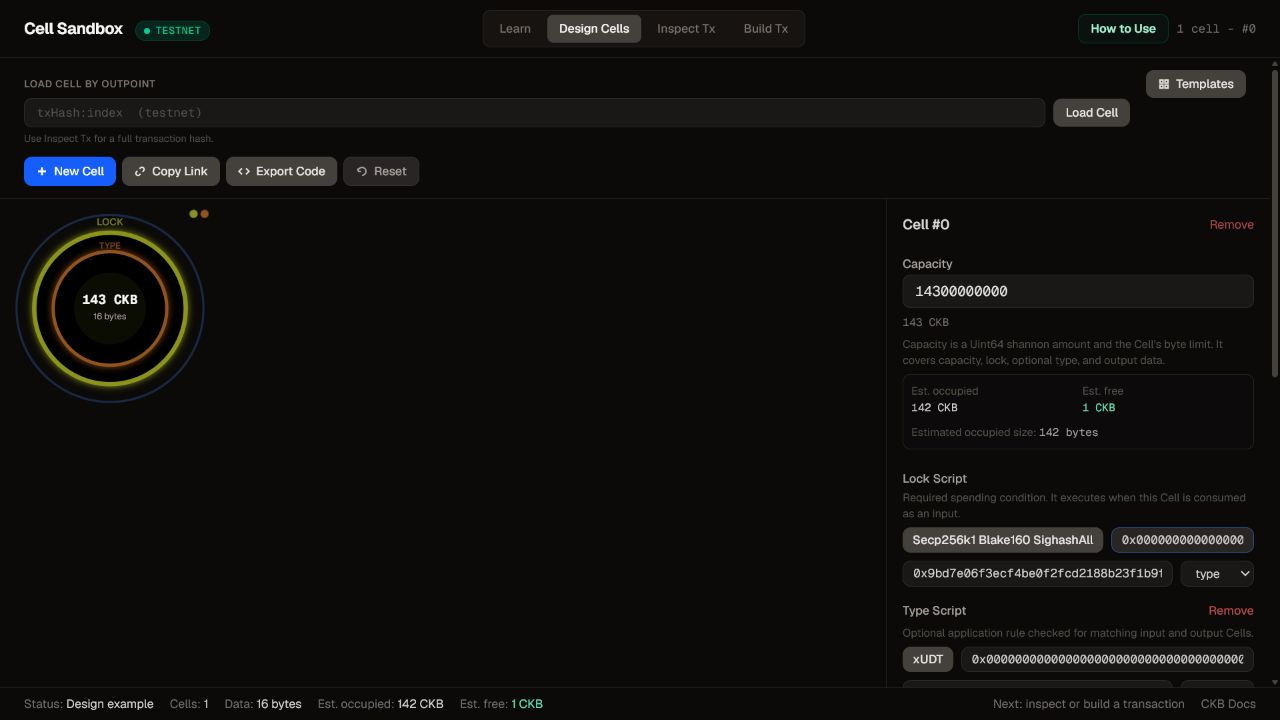
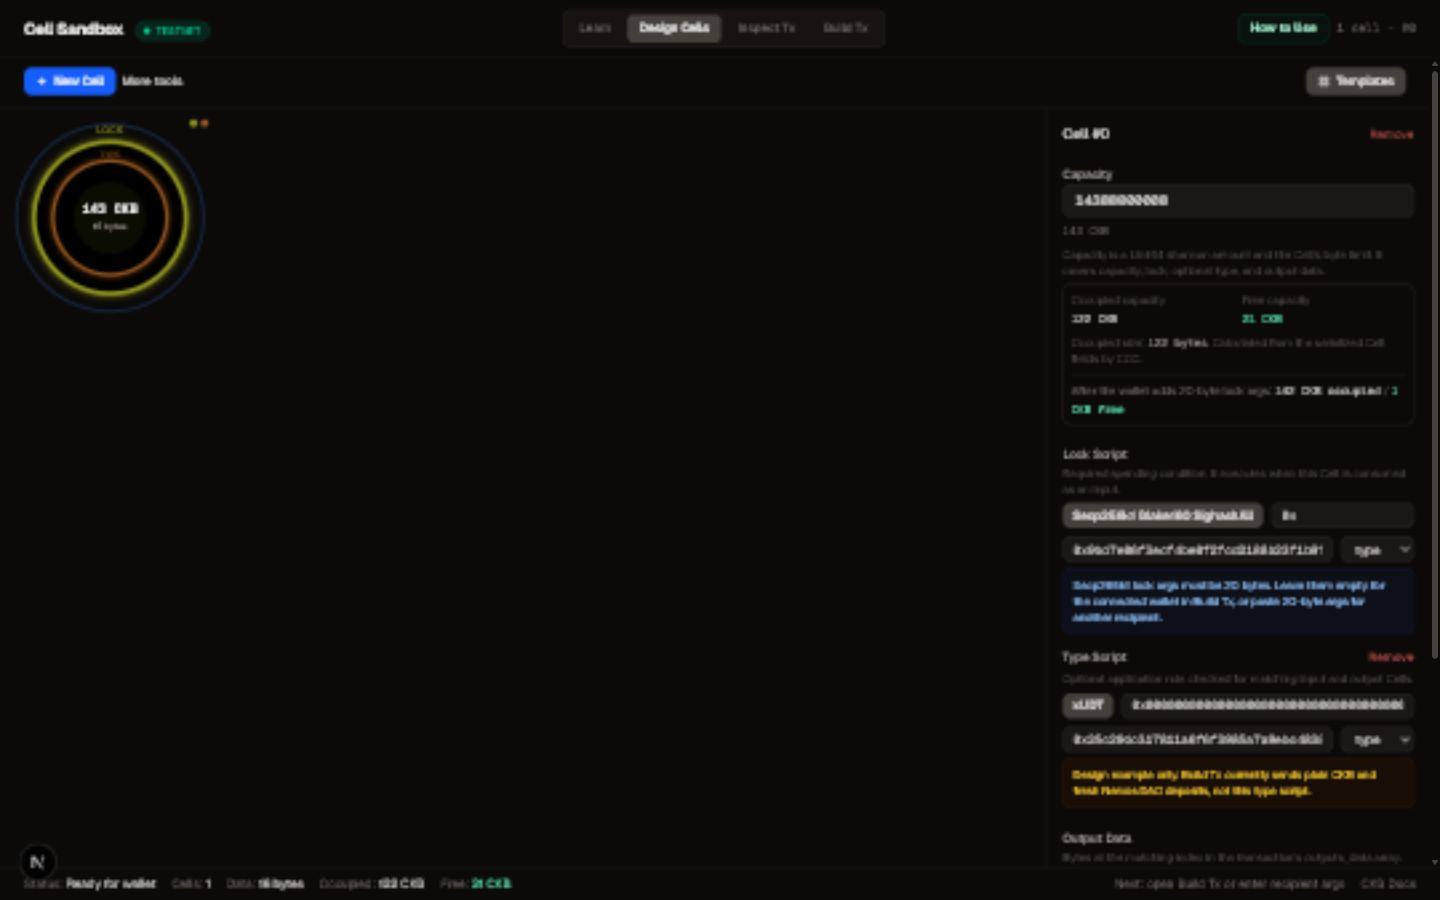
docs: align README with simplified workflow

diff --git a/README.md b/README.md
@@ -1,6 +1,6 @@
 # Cell Sandbox
 
-Cell Sandbox is a visual learning and prototyping workspace for the Nervos CKB Cell model. Design Cells field by field, inspect committed transactions, understand capacity and scripts, export CCC-compatible TypeScript, and build supported transactions without starting from raw structures.
+Cell Sandbox is a visual learning and prototyping workspace for the Nervos CKB Cell model. Its four focused workspaces move from a read-only explanation of Cells to field-level design, inspection of committed transactions, and wallet-funded transaction construction with CCC.
 
 [Open the live demo](https://cell-sandbox-m.vercel.app/) | [Read the CKB docs](https://docs.nervos.org/) | [Architecture](docs/ARCHITECTURE.md) | [Development guide](docs/DEVELOPMENT.md) | [Usability protocol](docs/USABILITY_TESTING.md)
 
@@ -13,9 +13,10 @@ CKB stores state in Cells rather than account records. That model is powerful, b
 Cell Sandbox makes those relationships visible:
 
 - **Learn before editing.** Learn is read-only and introduces one concept at a time before raw fields appear in Design Cells.
-- **Design with immediate feedback.** See exact capacity, occupied bytes, free capacity, script roles, and decoded data.
+- **Design with immediate feedback.** See exact capacity, occupied bytes, free capacity, script roles, and decoded data. Chain loading, sharing, and code export stay under **More tools** until needed.
 - **Inspect real state transitions.** Resolve the previous Cells referenced by transaction inputs and compare them with newly created output Cells.
-- **Build with explicit boundaries.** Build hides raw fields, shows the CCC completion path, and leaves editing in Design Cells.
+- **Build with explicit boundaries.** Build hides raw fields, separates outputs from wallet-selected inputs, and shows the exact CCC completion path.
+- **Reuse CCC behavior.** Known script deployments and Cell occupancy calculations come from CCC rather than a parallel local registry or estimator.
 - **Move back to code.** Export the visual configuration as CCC-compatible TypeScript or share it by URL.
 
 ## Guided Workflow
@@ -23,13 +24,15 @@ Cell Sandbox makes those relationships visible:
 | Step | Workspace | What happens |
 | --- | --- | --- |
 | 1 | **Learn** | Understand capacity, the required lock script, the optional type script, and output data. |
-| 2 | **Design Cells** | Create a draft, apply a template, edit fields, or load an on-chain Cell by outpoint. |
+| 2 | **Design Cells** | Create a local draft, apply a template, edit fields, or open **More tools** to load an on-chain Cell by outpoint. |
 | 3 | **Inspect Tx** | Paste a full transaction hash and compare referenced previous Cells with new output Cells. |
 | 4 | **Build Tx** | Mark drafts as outputs, connect a wallet, review validation, then sign and broadcast. |
 
 ### Design Cells
 
 The designer keeps protocol details next to the field they affect. Known lock and type scripts are separated, capacities remain exact `BigInt` values, and common data formats receive structured previews. Deployment values come from CCC `KnownScript`; occupied size and free capacity come from CCC `CellAny`.
+
+An empty standard Secp256k1 lock is a deliberate wallet-ready state, not a broken template. Build Tx fills it from the connected wallet. To create an output for someone else, enter that recipient's 20-byte lock args in Design Cells.
 
 ![xUDT Cell in the visual designer](docs/screenshots/design-xudt.png)
 
@@ -50,6 +53,16 @@ Built-in Pudge samples make the view reproducible:
 
 Draft Cells do not become transaction inputs. In Build Tx you explicitly select the Cells to create as outputs. The wallet then selects spendable funding Cells, calculates the fee at signing time, and sends change back to the wallet.
 
+The construction path shown in the interface matches the implementation:
+
+```ts
+const tx = ccc.Transaction.from({ outputs, outputsData })
+await tx.completeInputsByCapacity(signer)
+await tx.completeFeeBy(signer, 1000)
+```
+
+For a fresh Nervos DAO deposit, Cell Sandbox also asks CCC to add the known DAO cell dep before completion.
+
 ![DAO output with automatic wallet funding](docs/screenshots/build-dao.png)
 
 ## Current Build Scope
@@ -65,6 +78,14 @@ Cell Sandbox intentionally distinguishes sendable templates from design-only exa
 | Always Success | Design only | Study an anyone-can-spend testing lock without funding it. |
 
 Build validation blocks unsupported type scripts, malformed script arguments, insufficient capacity, and unsafe testing locks before wallet signing.
+
+### Product Boundaries
+
+- Designed Cells are local drafts until they are selected as transaction outputs.
+- Funding inputs, fee completion, and wallet change are supplied by CCC and the signer; Cell Sandbox is not a manual input selector.
+- Build Tx currently sends plain CKB outputs and fresh Nervos DAO deposits. xUDT, Omnilock, and Always Success remain design examples.
+- Inspect Tx reads committed transactions. It does not turn inspected Cells into editable or spendable wallet state.
+- Mainnet mode uses real CKB. Test templates and wallet flows on Pudge before using mainnet.
 
 ## Wallet and Network Support
 
@@ -100,7 +121,7 @@ pnpm install
 2. Open **Design Cells**, choose **Templates**, and inspect the xUDT example.
 3. Open **Inspect Tx** and load the built-in multi-input sample.
 4. Open **Build Tx**, choose the **CKB Transfer** or **DAO Deposit** template, and confirm it becomes an output.
-5. Connect a testnet wallet to see its lock fill the template and the transaction advance to review.
+5. Connect a testnet wallet to see the empty output lock fill automatically and the transaction advance to review.
 
 ## CKB Model Used in the UI
 
@@ -129,7 +150,7 @@ Protocol references:
 | Application | Next.js 16, React 19, TypeScript |
 | Styling | Tailwind CSS 4 |
 | State | Zustand |
-| Transaction flow | Responsive React components |
+| Transaction construction | CCC `Transaction.from`, `completeInputsByCapacity`, and `completeFeeBy` |
 | CKB SDK and wallets | CCC / `@ckb-ccc` |
 | Validation | Zod |
 | Tests | Vitest and Testing Library |
